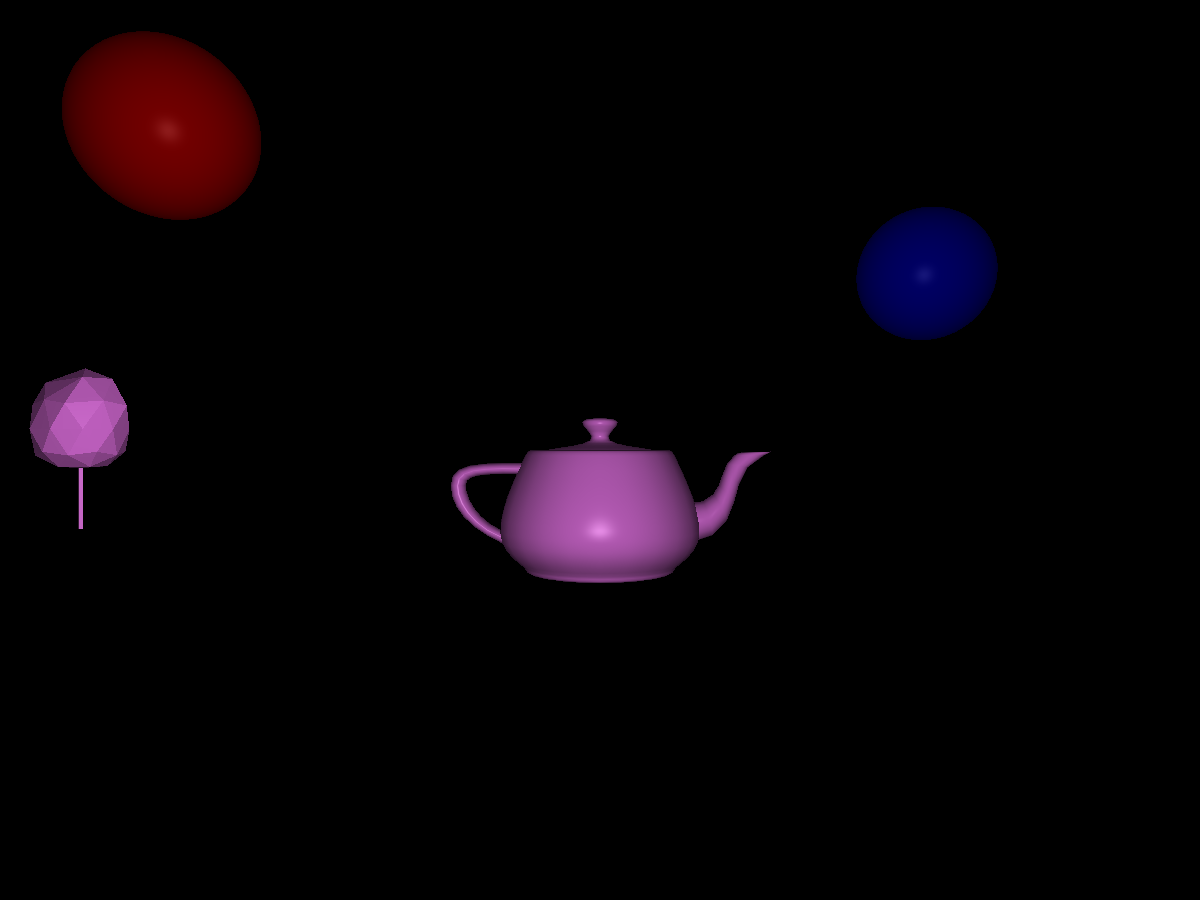
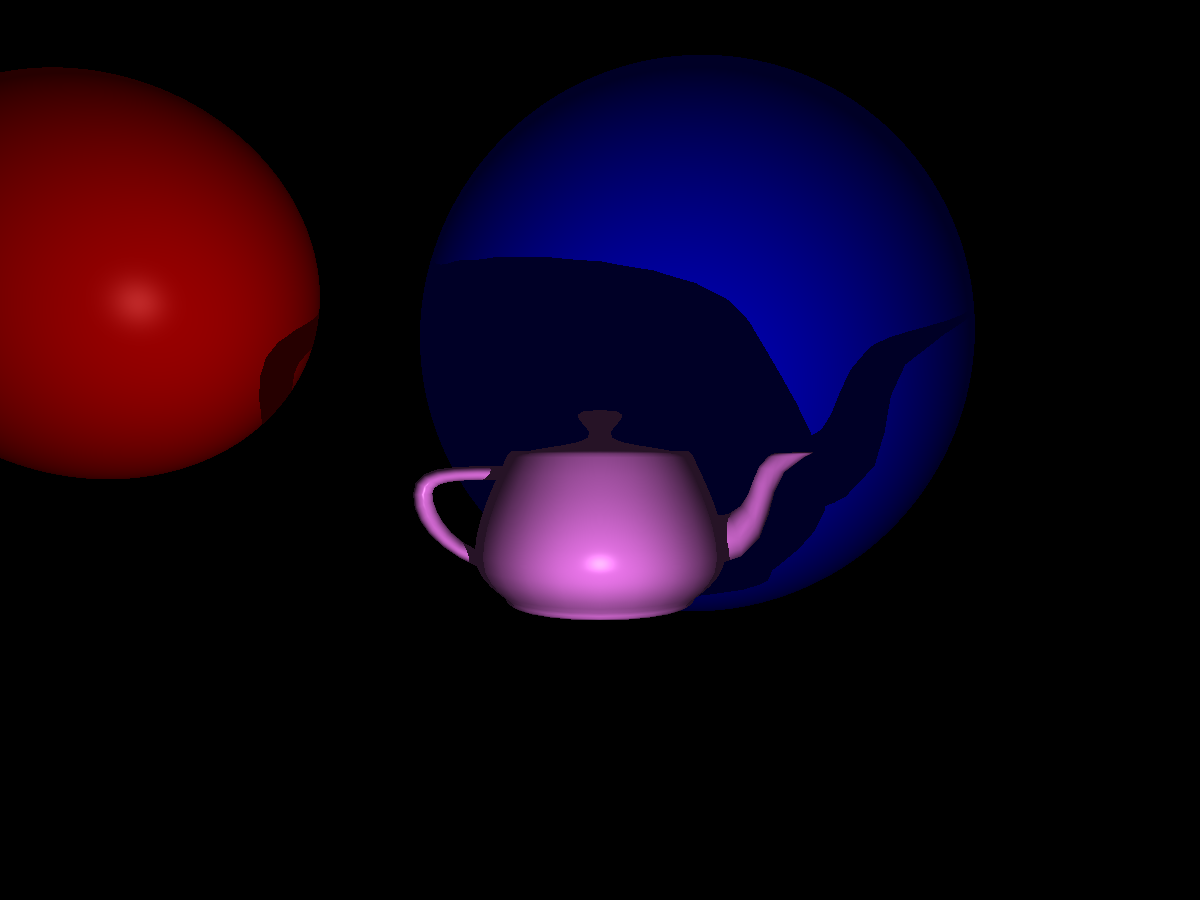
Shadows Visualization v0.7

diff --git a/Raytracer.java b/Raytracer.java
@@ -100,27 +100,29 @@ public class Raytracer {
         // Scene
         Scene scene = new Scene();
         
-        scene.addObject(new Sphere(new Vector3D(-5, 4, -7), 1, new Vector3D(1, 0, 0)));
-        scene.addObject(new Sphere(new Vector3D(5,3, -10), 1 ,new Vector3D(0, 0, 1)));
+        scene.addObject(new Sphere(new Vector3D(-5, 2, -6), 2, new Vector3D(1, 0, 0)));
+        scene.addObject(new Sphere(new Vector3D(1,1.5, -7), 3 ,new Vector3D(0, 0, 1)));
         
         // Placing the light above of the model, in front of the camera.
         scene.addLight(new PointLight(
-            new Vector3D(0, 0.3, 1.5),  // Position.
+            new Vector3D(0, -0.3, -0.5),  // Position.
             new Vector3D(1.0, 1.0, 1.0),  // White light.
             1.0                            // Full intensity.
         ));
 
-        List<Triangle> tea = OBJReader.load("teapot.obj", new Vector3D(1, 0.5, 1), new Vector3D(0, -0.5, -3));
+        List<Triangle> tea = OBJReader.load("teapot.obj", new Vector3D(1, 0.5, 1), new Vector3D(0, -0.5, -2));
         OBJReader.printBounds(tea);
         for (Triangle t : tea) {
             scene.addObject(t);
         }
 
+        /*
         List<Triangle> tris = OBJReader.load("CottonCandy.obj", new Vector3D(1, 0.5, 1), new Vector3D(-2, 0, -1));
         OBJReader.printBounds(tris);
         for (Triangle t : tris) {
             scene.addObject(t);
         }
+        */
 
         // Raytracer
         Raytracer raytracer = new Raytracer(scene, camera);
